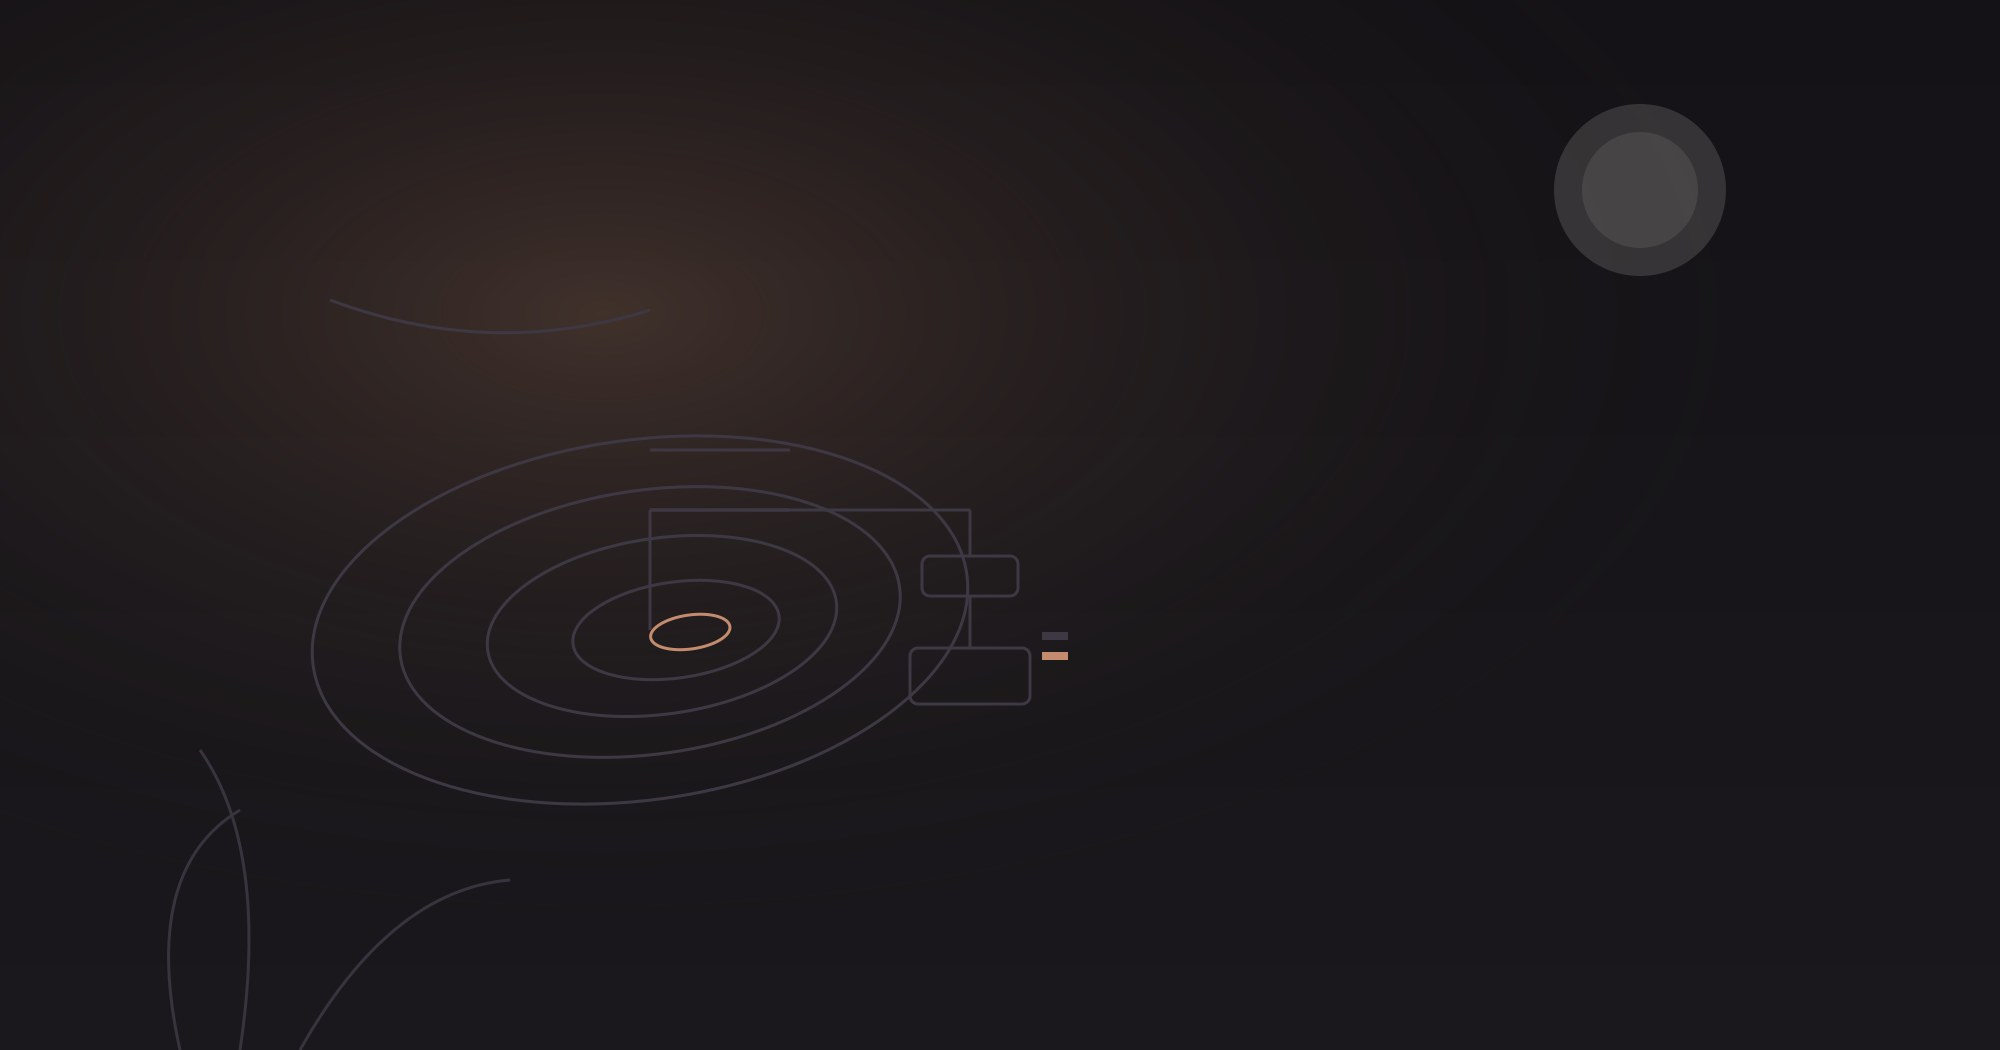
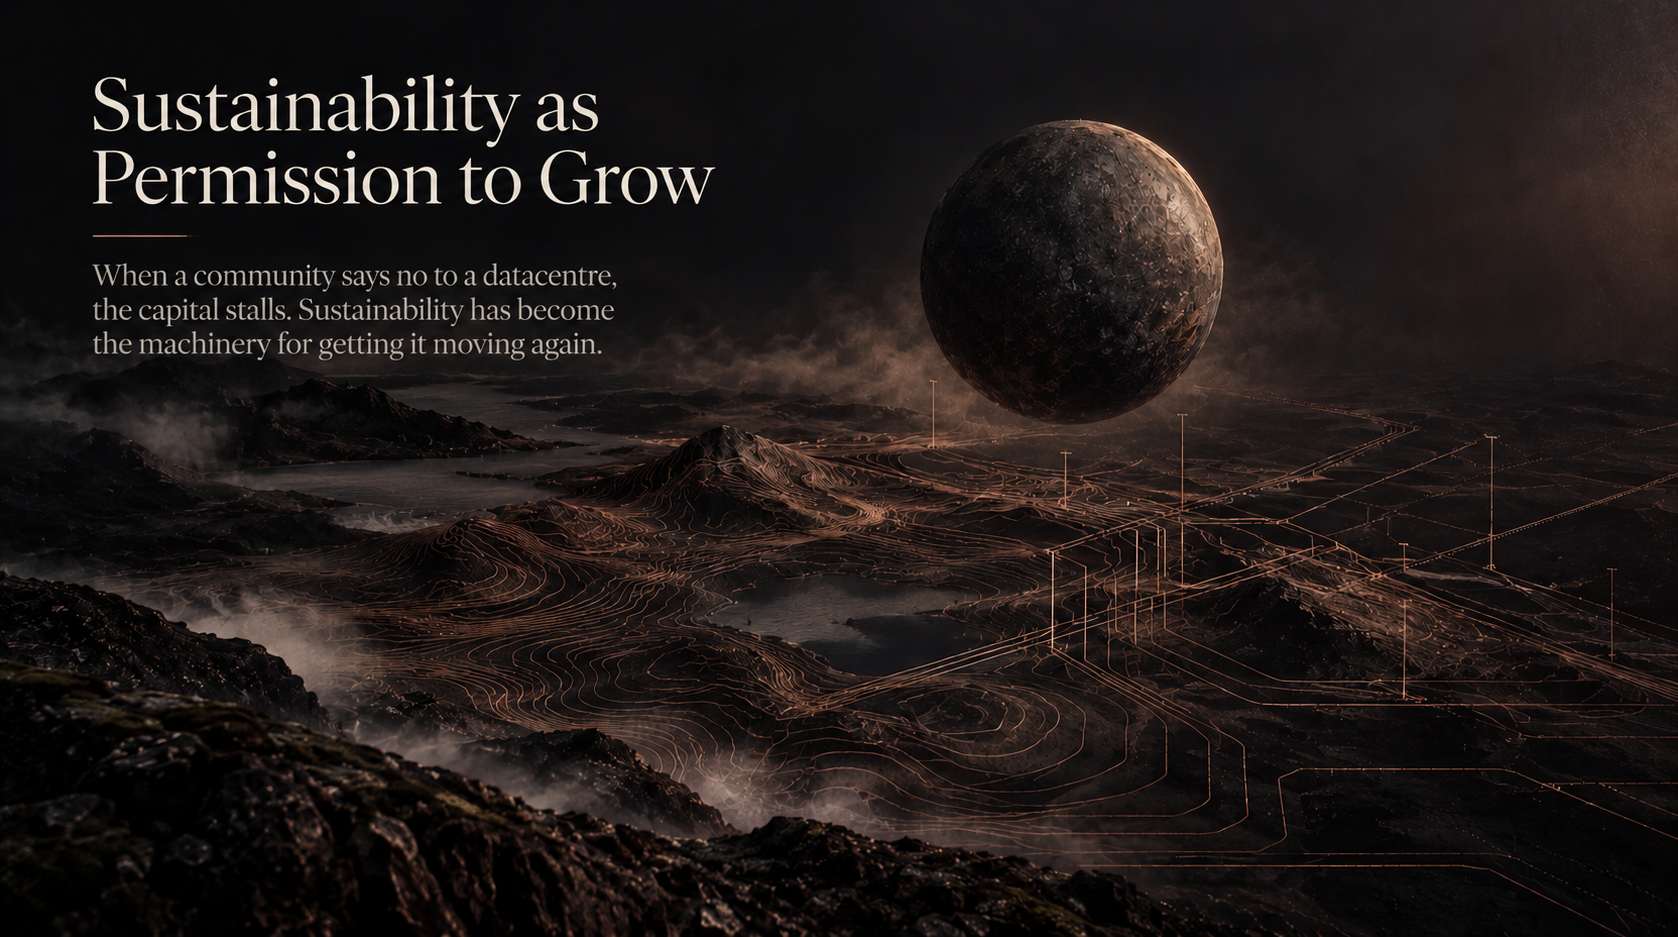
content(og): replace the sustainability hero with the authored 'Permission to Grow' artwork
Swaps the schematic-contour hero for the supplied landscape illustration.
The public original is committed byte-for-byte as hero.jpg, so hero and
og:image are the same artwork and the byte-identity with the supplied file
still holds. heroAlt is rewritten to describe what the new image actually
shows rather than the artwork it replaced.

diff --git a/src/content/blog/sustainability-as-permission-to-grow.md b/src/content/blog/sustainability-as-permission-to-grow.md
@@ -4,7 +4,7 @@ description: 'Sustainability frameworks are becoming how AI infrastructure gets 
 date: 2026-09-29
 tags: ['ai-safety', 'policy', 'data-centres', 'energy', 'governance', 'tasmania', 'research']
 heroImage: '/notebook-assets/sustainability-as-permission-to-grow/hero.jpg'
-heroAlt: 'Schematic contours of an island under a dark moon: a hydro storage icon wired through the landscape to a stacked grid of computational load.'
+heroAlt: 'The essay title, Sustainability as Permission to Grow, over dark botanical artwork, with the line: when a community says no to a datacentre, the capital stalls.'
 ogImage: '/og/blog/sustainability-as-permission-to-grow.png'
 audioUrl: 'https://cdn.adrianwedd.com/notebook-assets/sustainability-as-permission-to-grow/audio.m4a'
 audioDuration: '47:29'
